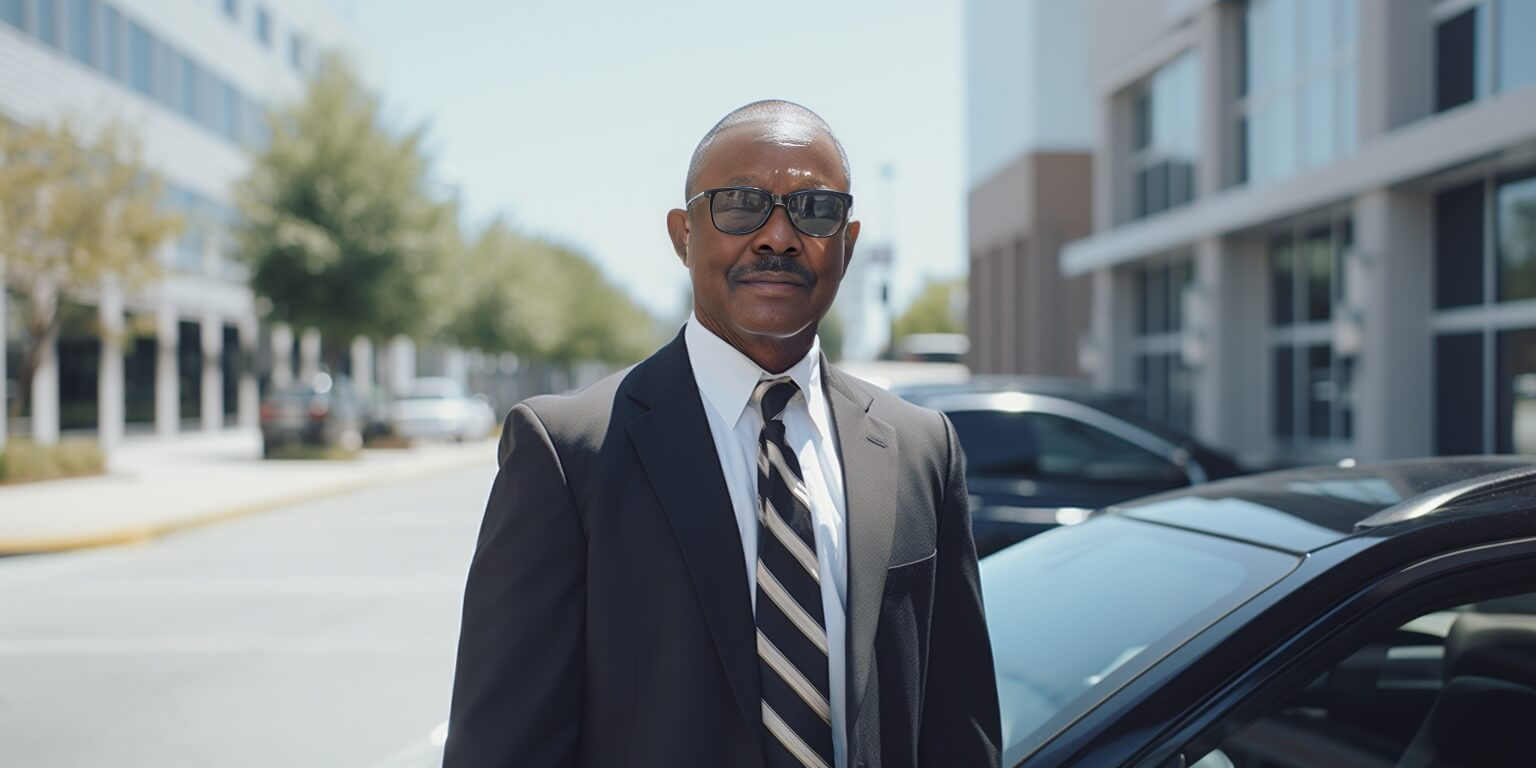
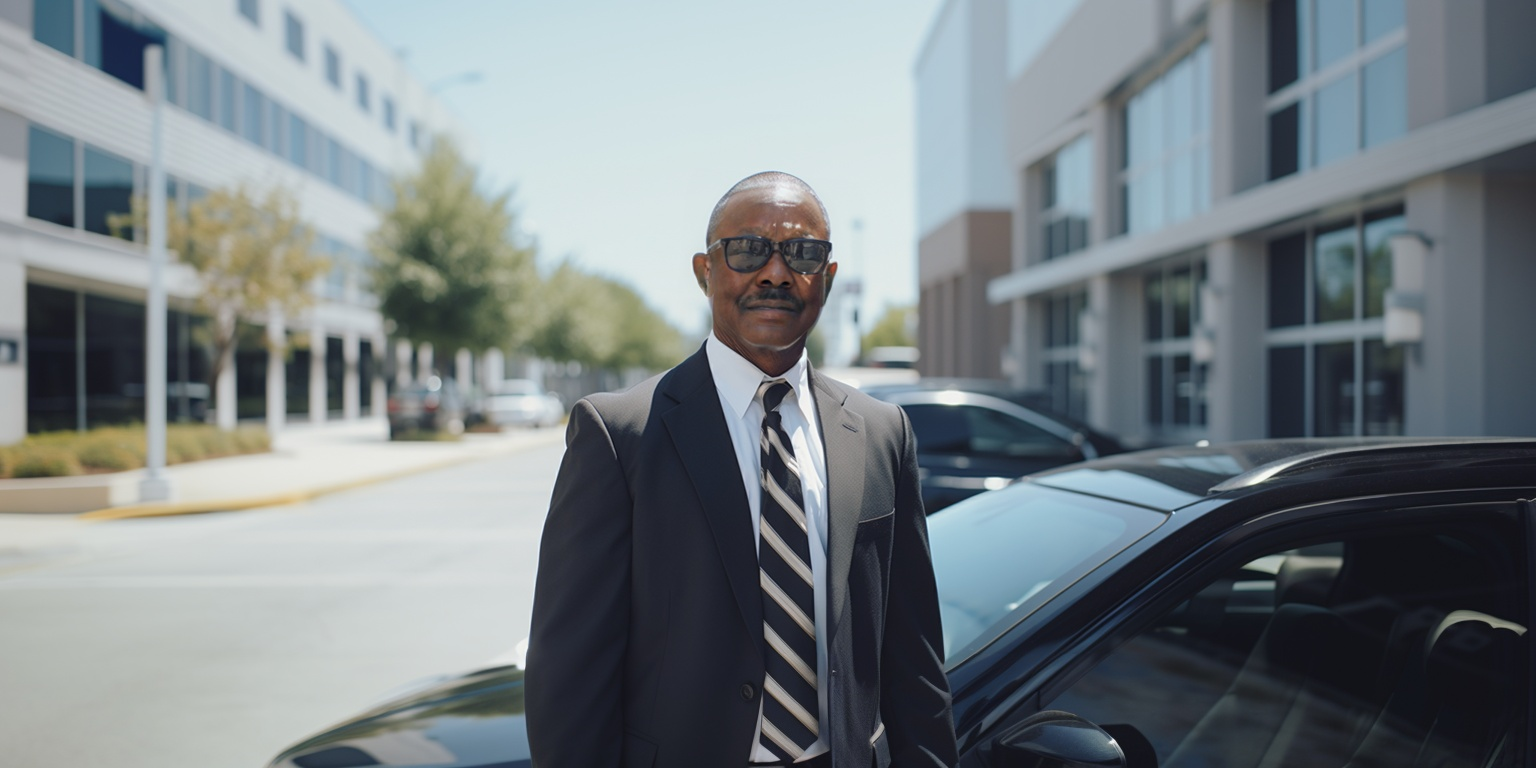
New Blog Images

diff --git a/src/app/blog/page.tsx b/src/app/blog/page.tsx
@@ -1,5 +1,5 @@
 import PageIntro from "../components/PageIntro/PageIntro";
-import Blog from "../../../public/images/blog.png";
+import Blog from "../../../public/images/blog3.png";
 import BlogSection from "../components/BlogSection/BlogSection";
 import ContactSection from "../components/ContactSection/ContactSection";
 import FinalCTA from "../components/FinalCTA/FinalCTA";
@@ -24,11 +24,7 @@ const BlogPage = () => {
 
   return (
     <main>
-      <PageIntro
-        heading='Our Blog'
-        
-        src={Blog}
-      />
+      <PageIntro heading='Our Blog' src={Blog} />
       <BlogSection blogData={blogs} />
       <ContactSection />
       <FinalCTA />

diff --git a/src/app/components/PageIntro/PageIntro.module.css b/src/app/components/PageIntro/PageIntro.module.css
@@ -16,7 +16,7 @@
 }
 
 .content {
-  padding: 7.5rem 1rem;
+  padding: 10rem 1rem;
   display: flex;
   flex-direction: column;
   justify-content: center;
@@ -53,7 +53,6 @@
   font-size: 2rem;
   font-weight: 400;
   opacity: 0.8;
-  /* text-align: center; */
 }
 
 @media screen and (max-width: 968px) {
@@ -81,7 +80,7 @@
   }
 
   .heading {
-    font-size: 5rem;
+    font-size: 6rem;
   }
 
   .heading::after {
